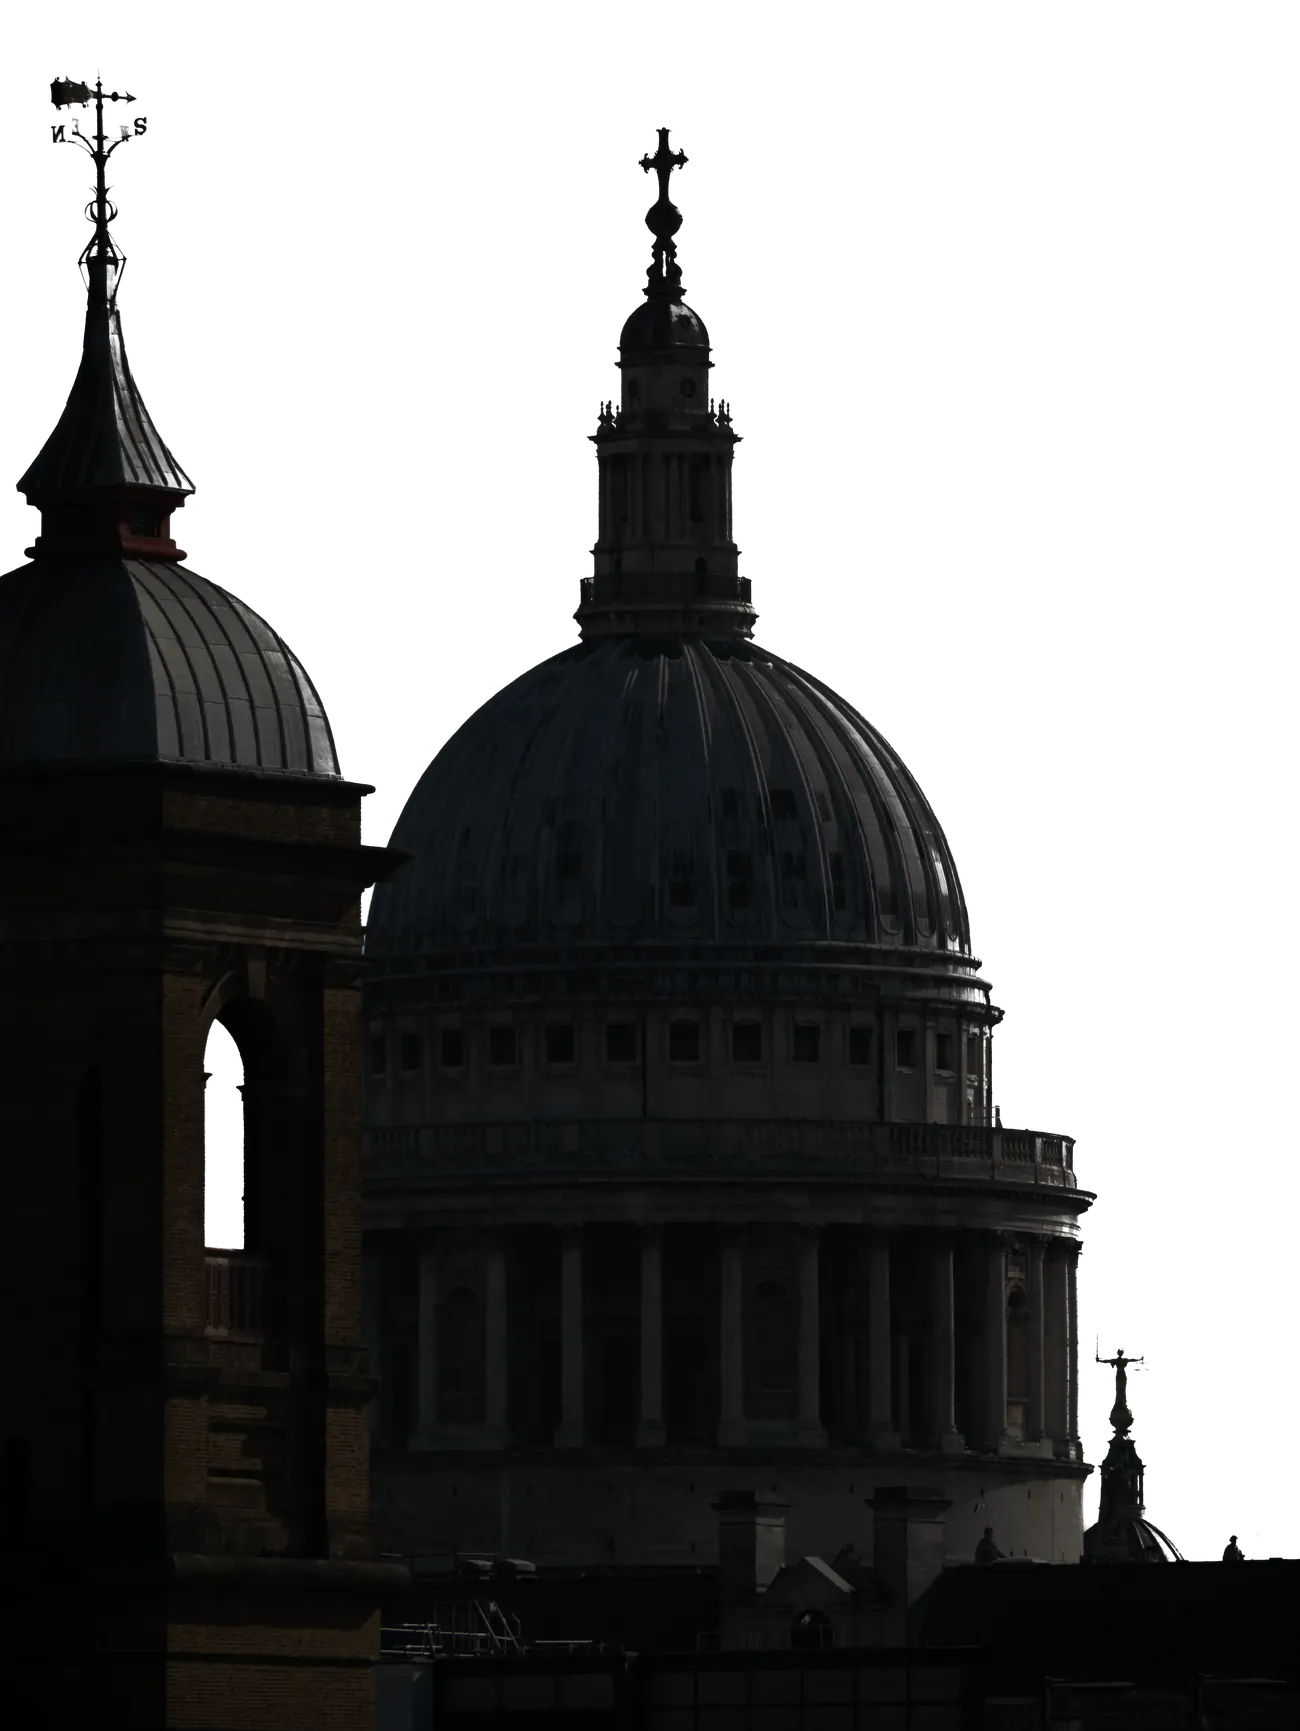
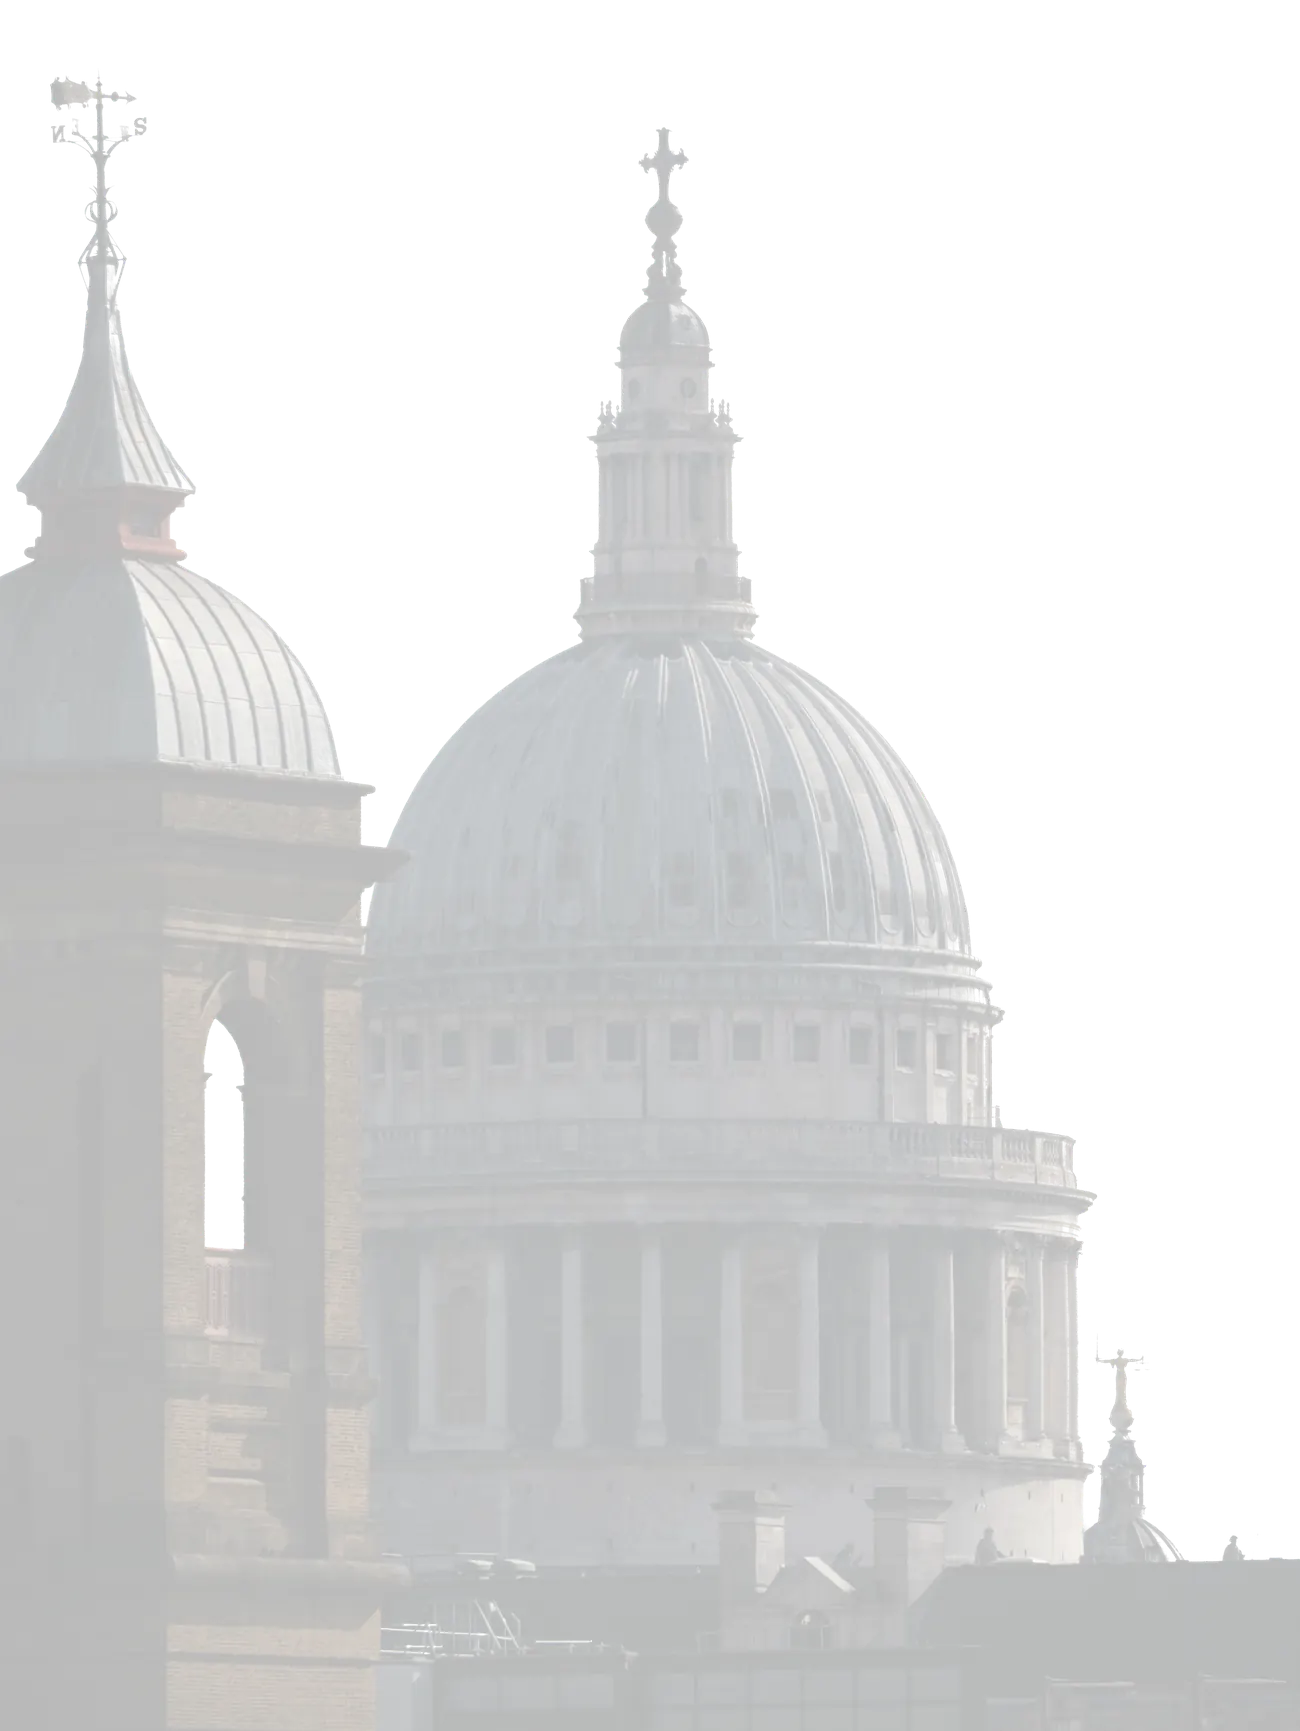
Lift the light endpoints to a watermark, and re-bake
Moves SHADOW and HIGHLIGHT on all three light grades, from the tuner:
plate and car SHADOW 0x00 -> 0xb8, eye 0x05 -> 0xc7, and all three
HIGHLIGHT -> 0xff. The darks are untouched, so only the light ladders
change bytes; the dark ones re-bake byte-identically.

On white this puts the pictures at a mean dL* of 2.43, 1.79 and 2.03 off
the paper, down from 10.01, 10.02 and 10.60, and pins HIGHLIGHT on the
page exactly — the dark paper's own pathology, chosen on purpose this
time. WHAT THE LIGHT PAPER NOW COSTS in the docstring records the
arithmetic, and the two older sections that were written against the
previous light endpoints now say which numbers they describe rather than
claiming the current ones.

HIGHLIGHT is shared across the three and SHADOW is not, mirroring
DARK_SHADOW: the end that lands on the page is a property of the paper,
the end that carries the picture is a property of the frame.

IMG_VERSION -> cd5a41c7.

diff --git a/portfolio/index.html b/portfolio/index.html
@@ -69,7 +69,7 @@
          URL — see rungUrl below for what it is for. design/plate/build-plate.py
          prints the current value at the end of every run; paste it here whenever
          it differs from this one, in the same commit as the re-baked files. */
-      var IMG_VERSION = "a236b498";
+      var IMG_VERSION = "cd5a41c7";
 
       /* One entry per picture, and `fill` is the only thing that separates them:
          the width it is drawn at as a share of the first screen. All three are

diff --git a/design/plate/build-plate.py b/design/plate/build-plate.py
@@ -235,8 +235,17 @@ So an endpoint pair is the knob for WHERE the picture sits and a poor one for
 whether it can be seen at all. The measurements, in CIE L* because eight bits are
 not a perceptual unit:
 
-    light, 0.12 on #fff    picture spans dL* 3.88, sits dL* 10.7..6.8 off the paper
+    light, 0.12 on #fff    picture spans dL* 2.95, sits dL* 3.0..0.0 off the paper
     dark,  0.17 on #000    picture spans dL* 4.55, sits dL* 0..4.6 off the paper
+
+The light row is the CURRENT light endpoints and the dark row is the ones the next
+section replaces, which is why they are not a matched pair — each is the state its
+own section argues about. Before the light endpoints moved, that first row read
+
+    light, 0.12 on #fff    picture spans dL* 3.88, sits dL* 10.7..6.8 off the paper
+
+and the paragraph above, along with the whole of the section after next, was
+written against it. See WHAT THE LIGHT PAPER NOW COSTS.
 
 THE ARITHMETIC OF THE DARK PAPER
 --------------------------------
@@ -264,10 +273,43 @@ this is still an order of magnitude quieter than the words and the reason to sto
 here is not the type — there is room — it is that a floor much above this stops
 reading as ink on black paper and starts reading as a grey card laid on it.
 
-Note what this does NOT change: the light grades. On white the picture's SHADOW
-end is its most visible part (dL* 10.7 off the paper) and it is HIGHLIGHT that is
-being lost into the page. The two papers fail at opposite ends, which is the whole
-argument for a Grade per theme, arrived at from the arithmetic rather than by eye.
+This changed no light grade at the time, and the reason is the sentence the next
+section is named after: the two papers fail at OPPOSITE ends. On black it is SHADOW
+that lands on the page; on white it is HIGHLIGHT. That asymmetry is the whole
+argument for a Grade per theme, and it was arrived at from the arithmetic rather
+than by eye.
+
+WHAT THE LIGHT PAPER NOW COSTS
+------------------------------
+The light endpoints have since moved, and they moved the other way: SHADOW up to
+0xb8 (0xc7 on the eye) and HIGHLIGHT to 0xff. On white that is the dark paper's
+pathology chosen deliberately — 0xff composites onto a #fff page at exactly the
+page's own value, so the light picture's HIGHLIGHT end is now not dim, it is gone,
+and what is left runs from code 246 to code 255:
+
+    plate  SHADOW 0x00 -> 0xb8   composite 224.4 -> 246.5   dL* 10.68 -> 2.95
+           HIGHLIGHT 0x5c -> 0xff   composite 235.4 -> 255.0   dL*  6.80 -> 0.00
+
+which narrows what the picture spans from dL* 3.88 to 2.95 and brings its whole
+band to within 3 dL* of the paper. Composited and averaged over each picture's own
+subject — the mean, not the endpoints, and taken over alpha > 0.99 so the feathered
+roofline is not counted — the three land at
+
+    plate dL* 2.43    car dL* 1.79    eye dL* 2.03      (were 10.01, 10.02, 10.60)
+
+so all three are about a quarter as far off the page as they were. That is a
+watermark rather than a picture, and it is a judgement about how loud this page
+wants to be rather than anything the arithmetic asked for: everything above says
+the light side had dL* 10.7 of room and was using it.
+
+Two things follow that are worth having written down before the next person moves
+these. The band is now EIGHT to nine 8-bit codes wide on white, so the quantiser
+argument in WHAT THE ENDPOINTS CANNOT FIX now bites on the light theme too and did
+not before — the levers that widen a band, --*-opacity and --*-fill, are the only
+ones left with anything to give here. And the three pictures are no more equal to
+each other than they were: they spread 0.64 dL* either way, which was 6% of the
+old level and is 31% of this one. Equalising them is still --*-opacity's job, for
+the reason the next section gives, and it is now a larger job than it was.
 
 WHICH KNOB EACH PAPER ANSWERS TO
 ---------------------------------
@@ -283,12 +325,20 @@ the lift this whole section is about. The ceiling is free to move, so it moves.
 
 On WHITE, the knob is --*-opacity in styles.css, and the endpoints cannot be it.
 At 0.12 the furthest any ink can get from white paper is dL* 10.68, and the three
-pictures already sit at 9.89, 9.08 and 8.80 — inside the last dL* of the range.
-Solving for a HIGHLIGHT that equalises them there asks for 0x17 and 0x14, which is
-not a grade, it is crushing two of the pictures to a silhouette to buy a difference
-the paper has no room for. Raising a picture's opacity instead moves its whole band
-away from the paper and costs nothing, because on white nothing is being clipped
-into the page at the bottom.
+pictures sat at 9.89, 9.08 and 8.80 — inside the last dL* of the range. Solving for
+a HIGHLIGHT that equalises them there asks for 0x17 and 0x14, which is not a grade,
+it is crushing two of the pictures to a silhouette to buy a difference the paper has
+no room for. Raising a picture's opacity instead moves its whole band away from the
+paper and costs nothing, because on white nothing is being clipped into the page at
+the bottom.
+
+Those three figures are the endpoints this page had before WHAT THE LIGHT PAPER NOW
+COSTS, and they are left standing because the argument is about the RATIO and the
+ratio is what survived the move: at dL* 2.43, 1.79 and 2.03 the pictures are no
+closer together, and every reason below for reaching for opacity instead of a
+ceiling holds at the new level exactly as it did at the old one. What has changed is
+only that there is now less of the range in use, not that some other knob has become
+the right one.
 
 So: a picture's share of the light is set on black here, and on white in styles.css,
 and each is the only place its own paper leaves room for.
@@ -380,14 +430,28 @@ class Grade(NamedTuple):
 # the split and opens on the same numbers for the same reason from the other end:
 # a third picture off this pipeline is a third print of one paper stock until
 # somebody looks at it and says otherwise.
+#
+# The three lights then moved together, and a long way: SHADOW from the bottom of
+# the range to near the top of it, HIGHLIGHT onto the paper itself. That is a
+# judgement about how loud these pictures are on white — a watermark rather than a
+# grey picture — and not a correction of anything. It is also the one set of
+# endpoints in this file chosen AGAINST the arithmetic the docstring gives for
+# them: see WHAT THE LIGHT PAPER NOW COSTS.
+#
+# HIGHLIGHT is shared here and SHADOW is not, which is THE ARITHMETIC OF THE DARK
+# PAPER's rule with the papers swapped rather than a second rule. The end that
+# lands on the page is a property of the PAPER — 0xff composites to 255 on #fff for
+# the eye exactly as it does for the plate — so it is one value; the end that has
+# to carry the picture is a property of the FRAME, so it is three.
+LIGHT_HIGHLIGHT = (0xff, 0xff, 0xff)   # the paper itself: composites to 255 on #fff
 PLATE_LIGHT = Grade(
     EXPOSURE_PCT=99.0,
     EXPOSURE_TARGET=0.34,
     SAT_KEEP=1.00,
     CONTRAST=0.36,
     HIGHLIGHT_PUSH=1.34,
-    SHADOW=(0x00, 0x00, 0x00),      # pure black
-    HIGHLIGHT=(0x5c, 0x5c, 0x5c),   # mid grey
+    SHADOW=(0xb8, 0xb8, 0xb8),      # composites to code 246.5 on white at 0.12
+    HIGHLIGHT=LIGHT_HIGHLIGHT,
     GRAIN_SIGMA=0.0075,
 )
 
@@ -446,8 +510,8 @@ CAR_LIGHT = Grade(
     SAT_KEEP=1.00,
     CONTRAST=0.36,
     HIGHLIGHT_PUSH=1.34,
-    SHADOW=(0x00, 0x00, 0x00),      # pure black
-    HIGHLIGHT=(0x5c, 0x5c, 0x5c),   # mid grey
+    SHADOW=(0xb8, 0xb8, 0xb8),      # composites to code 245.4 on white at 0.135
+    HIGHLIGHT=LIGHT_HIGHLIGHT,
     GRAIN_SIGMA=0.0075,
 )
 
@@ -468,8 +532,8 @@ EYE_LIGHT = Grade(
     SAT_KEEP=1.00,
     CONTRAST=0.36,
     HIGHLIGHT_PUSH=1.34,
-    SHADOW=(0x05, 0x05, 0x05),      # off black
-    HIGHLIGHT=(0x61, 0x61, 0x61),   # mid grey
+    SHADOW=(0xc7, 0xc7, 0xc7),      # composites to code 247.7 on white at 0.131
+    HIGHLIGHT=LIGHT_HIGHLIGHT,
     GRAIN_SIGMA=0.0075,
 )
 
